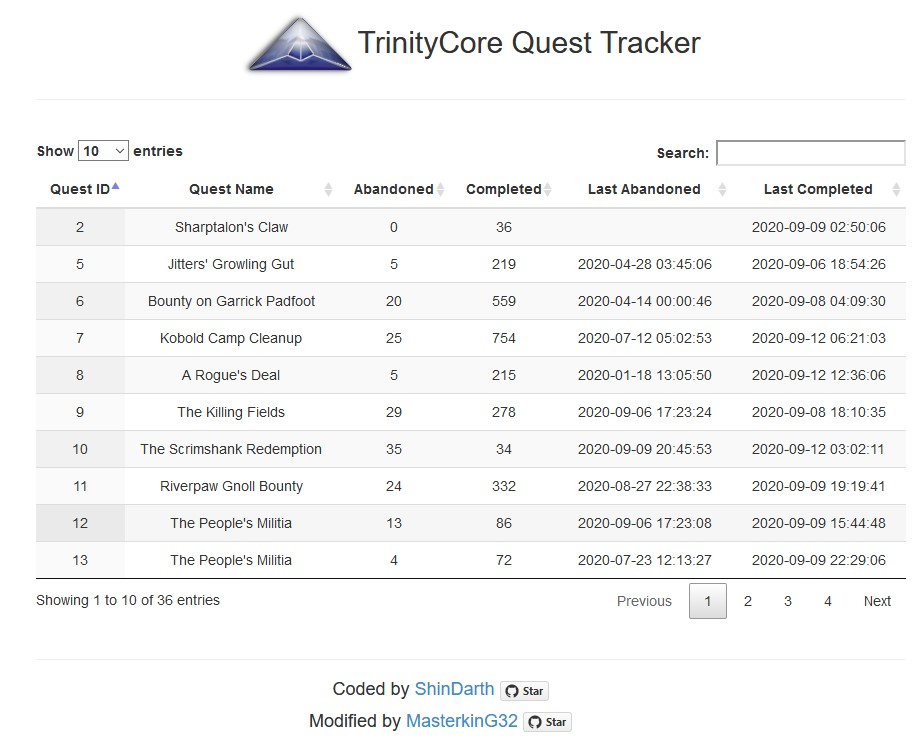
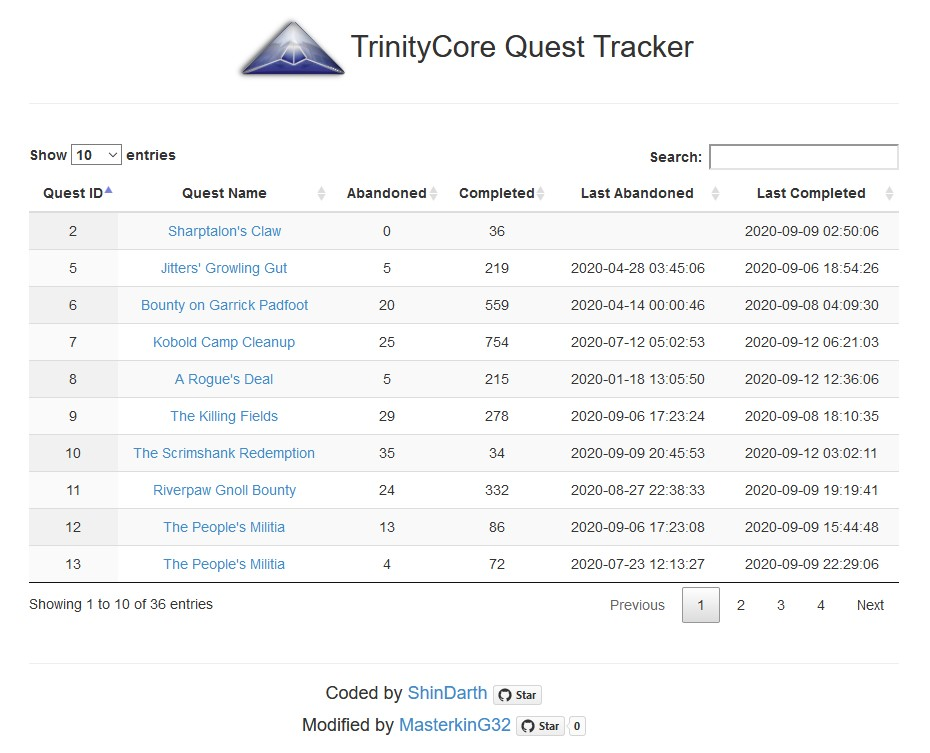
Fixed quest url.

diff --git a/server_processing.php b/server_processing.php
@@ -12,7 +12,10 @@ $primaryKey = 't1.id';
 
 $columns = array(
     array( 'db' => 't1.id as id', 'name' => 'id', 'where' => 't1.id', 'dt' => 0 ),
-    array( 'db' => 't2.LogTitle as title', 'name' => 'title', 'where' => 't2.LogTitle',  'dt' => 1 ),
+    array( 'db' => 't2.LogTitle as title', 'name' => 'title', 'where' => 't2.LogTitle',  'dt' => 1,
+		'formatter' => function( $data, $row ) {
+            return '<a href="' . quest_url . $row['id'] . '" target="_blank">' . $row['title'] . '</a>';
+        } ),
     array( 'db' => 'COUNT(t1.quest_abandon_time) AS abandoned_times', 'name' => 'abandoned_times', 'where' => '',   'dt' => 2 ),
     array( 'db' => 'COUNT(t1.quest_complete_time) AS completed_times', 'name' => 'completed_times', 'where' => '',     'dt' => 3 ),
     array( 'db' => 'MAX(t1.quest_abandon_time) AS last_abandoned', 'name' => 'last_abandoned', 'where' => 't1.quest_abandon_time',     'dt' => 4 ),
